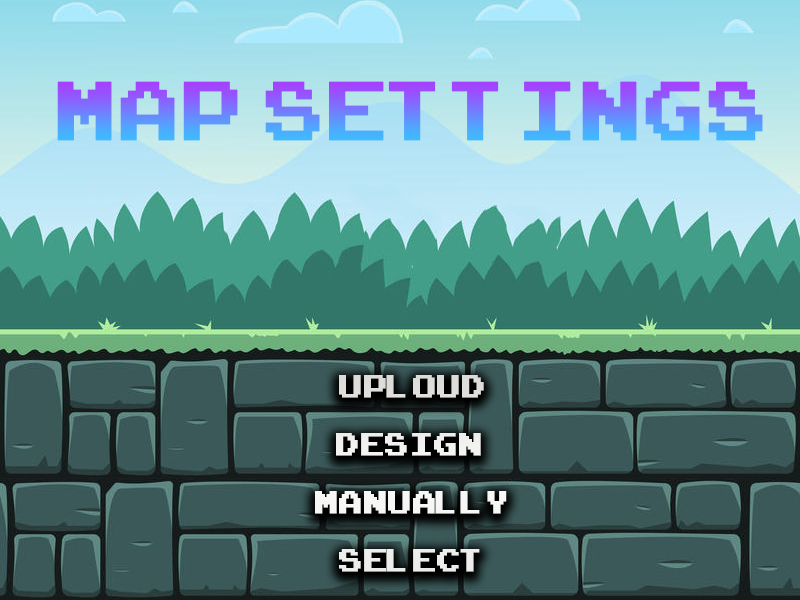
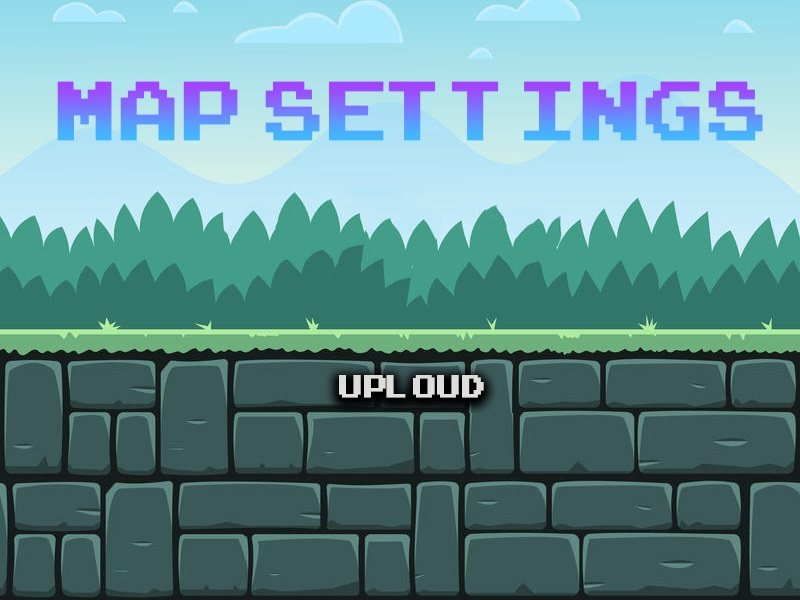
GUIdone

diff --git a/src/main/java/nl/maastrichtuniversity/dke/gui/GameComponent.java b/src/main/java/nl/maastrichtuniversity/dke/gui/GameComponent.java
@@ -9,6 +9,7 @@ import javax.swing.Timer;
 
 import nl.maastrichtuniversity.dke.logic.agents.Agent;
 import nl.maastrichtuniversity.dke.logic.*;
+import nl.maastrichtuniversity.dke.logic.agents.Guard;
 import nl.maastrichtuniversity.dke.logic.agents.modules.communication.CommunicationMark;
 import nl.maastrichtuniversity.dke.logic.scenario.Sound;
 import nl.maastrichtuniversity.dke.logic.scenario.environment.Environment;
@@ -21,13 +22,19 @@ import org.slf4j.LoggerFactory;
 public class GameComponent extends JComponent{
 
 	private final Scenario scenario;
+
 	private Environment environment;
 
 	private int textureSize;
 	private int panningX;
 	private int panningY;
+	private int agentMapNum;
+	private boolean agentMapNumBoolean=false;
 
 	private int frame = 0; //Current animation frame
+
+	private List<Guard> newGuardList;
+	private List<Sound> newSoundList;
 
 	private static final Logger logger = LoggerFactory.getLogger(GameComponent.class);
 
@@ -38,6 +45,9 @@ public class GameComponent extends JComponent{
 		this.scenario = scenario;
 		this.environment = environment;
 		this.textureSize = (int) (scenario.getScaling()*100) /2;
+		this.newGuardList=scenario.getGuards();
+		this.newSoundList=scenario.getSoundMap();
+
 
 		startGameSystem();
 	}
@@ -49,6 +59,8 @@ public class GameComponent extends JComponent{
 		this.scenario = Game.getInstance().getScenario();
 		this.environment = scenario.getEnvironment();
 		this.textureSize = (int) (scenario.getScaling()*100);
+		this.newGuardList=scenario.getGuards();
+		this.newSoundList=scenario.getSoundMap();
 
 		startGameSystem();
 	}
@@ -75,12 +87,20 @@ public class GameComponent extends JComponent{
 		drawAreas(g, environment.get(TileType.TARGET), imageFactory.get("targetTexture"));
 		drawAreas(g, environment.get(TileType.SHADED), imageFactory.get("shadedTexture"));
 		drawAreas(g, environment.get(TileType.UNKNOWN), imageFactory.get("unknownTexture"));
+		drawAreas(g, environment.get(TileType.DESTINATION_TELEPORT), imageFactory.get("teleportDTexture"));
+
 	}
 
 	private void drawGuards(Graphics g) {
-		for (Agent agent : scenario.getGuards()) {
-			drawAgent(g, agent);
+		if (agentMapNumBoolean){
+			drawAgent(g,scenario.getGuards().get(agentMapNum));
 		}
+		else{
+			for (Agent agent : scenario.getGuards()) {
+				drawAgent(g, agent);
+			}
+		}
+
 	}
 
 	private void drawIntruders(Graphics g) {
@@ -128,9 +148,11 @@ public class GameComponent extends JComponent{
 	}
 
 	private void drawSounds(Graphics g) {
-		for (int i = 0; i < scenario.getSoundMap().size(); i++) {
-			Sound sound = scenario.getSoundMap().get(i);
-			drawSound(g, sound);
+		if (!agentMapNumBoolean){
+			for (int i = 0; i < scenario.getSoundMap().size(); i++) {
+				Sound sound = scenario.getSoundMap().get(i);
+				drawSound(g, sound);
+			}
 		}
 	}
 
@@ -203,8 +225,28 @@ public class GameComponent extends JComponent{
 	public void zoomOut(){
 		textureSize = textureSize -1;
 	}
-	public void setEnvironment(Environment environment){
+	public void setEnvironment(Environment environment , int agentNum){
 		this.environment=environment;
+		agentMapNum=agentNum;
+		agentMapNumBoolean=true;
 	}
+	public void setUnionMap(){
+		for (int i =0 ; i <environment.getTileMap().length ;i++){
+			for(int j = 0 ; j <environment.getTileMap()[0].length ;j++){
+				if(environment.getTileMap()[i][j].getType()==TileType.UNKNOWN){
+					for (Agent agent : scenario.getGuards()) {
+						Tile[][] map = agent.getMemoryModule().getMap().getTileMap();
+						if( !(map[i][j].getType()==TileType.UNKNOWN)){
+							environment.getTileMap()[i][j]=map[i][j];
+						}
+					}
+				}
+			}
+		}
+		agentMapNumBoolean=false;
+	}
+
+
+
 
 }

diff --git a/src/main/java/nl/maastrichtuniversity/dke/gui/Menu.java b/src/main/java/nl/maastrichtuniversity/dke/gui/Menu.java
@@ -23,9 +23,6 @@ public class Menu implements ActionListener  {
     private final ImageFactory imageFactory = ImageFactory.getInstance();
 
     private final JButton upload = new JButton(new ImageIcon(imageFactory.get("uploadButton")));
-    private final JButton design = new JButton(new ImageIcon(imageFactory.get("designButton")));
-    private final JButton manually = new JButton(new ImageIcon(imageFactory.get("manuallyButton")));
-    private final JButton select = new JButton(new ImageIcon(imageFactory.get("selectButton")));
 
     private final JButton play = new JButton(new ImageIcon(imageFactory.get("playButton")));
     private final JButton exit = new JButton(new ImageIcon(imageFactory.get("exitButton")));
@@ -42,14 +39,6 @@ public class Menu implements ActionListener  {
         upload.setBounds(310,368,210,44);
         upload.addActionListener(this);
 
-        design.setBounds(310,425,210,44);
-        design.addActionListener(this);
-
-        manually.setBounds(310,483,210,44);
-        manually.addActionListener(this);
-
-        select.setBounds(310,535,210,44);
-        select.addActionListener(this);
 
         /*
          *  Set the label2 icon
@@ -63,9 +52,6 @@ public class Menu implements ActionListener  {
         label2.setBackground(Color.WHITE);
         label2.setOpaque(true);
         label2.add(upload);
-        label2.add(design);
-        label2.add(manually);
-        label2.add(select);
         label2.add(back);
 
 
@@ -117,9 +103,7 @@ public class Menu implements ActionListener  {
             label.setVisible(true);
             label2.setVisible(false);
         }
-        if(e.getSource()==manually) {
-            window.dispose();
-        }
+
         if(e.getSource()==upload){
             JFileChooser fileChooser = new JFileChooser();
             fileChooser.setCurrentDirectory(new File("src/main/resources/maps"));
@@ -135,12 +119,7 @@ public class Menu implements ActionListener  {
             }
 
         }
-        if(e.getSource()==select){
-            JOptionPane.showMessageDialog(select,"NOT IMPLEMENTED YET! :(" );
-        }
-        if(e.getSource()==design){
-            JOptionPane.showMessageDialog(design,"NOT IMPLEMENTED YET! :(" );
-        }
+
 
 
         // If exit  clicked close the frame.

diff --git a/src/main/java/nl/maastrichtuniversity/dke/gui/GameWindow.java b/src/main/java/nl/maastrichtuniversity/dke/gui/GameWindow.java
@@ -72,6 +72,8 @@ public class GameWindow  {
             agentsMapsBox.addItem("Agent "+agentsMapsBoxNum);
             agentsMapsBoxNum++;
         }
+        agentsMapsBox.addItem("Union Map");
+
         agentMemoryMap = new GameComponent(scenario,agentsEnvironments.get(0));
         gameComponent.setPreferredSize(new Dimension(
                 scenario.getEnvironment().getWidth()*textureSize,
@@ -207,8 +209,13 @@ public class GameWindow  {
 
         @Override
         public void actionPerformed(ActionEvent e){
-            agentEnvironment=agentsEnvironments.get(agentsMapsBox.getSelectedIndex());
-            agentMemoryMap.setEnvironment(agentEnvironment);
+            if (agentsMapsBox.getSelectedIndex()==agentsMapsBox.getItemCount()-1){
+                agentMemoryMap.setUnionMap();
+            }
+            else{
+                agentEnvironment=agentsEnvironments.get(agentsMapsBox.getSelectedIndex());
+                agentMemoryMap.setEnvironment(agentEnvironment ,agentsMapsBox.getSelectedIndex());
+            }
             performButtonAction(e.getSource());
             window.repaint();
         }

diff --git a/src/main/java/nl/maastrichtuniversity/dke/gui/ImageFactory.java b/src/main/java/nl/maastrichtuniversity/dke/gui/ImageFactory.java
@@ -79,6 +79,7 @@ public class ImageFactory {
         images.put("spawnAreaTexture", readImage("texture/spawnarea.png"));
         images.put("unknownTexture", readImage("texture/unknown.png"));
         images.put("soundTexture", readImage("texture/sound.png"));
+        images.put("teleportDTexture", readImage("texture/teleportD.png"));
 
 
         // Guard
